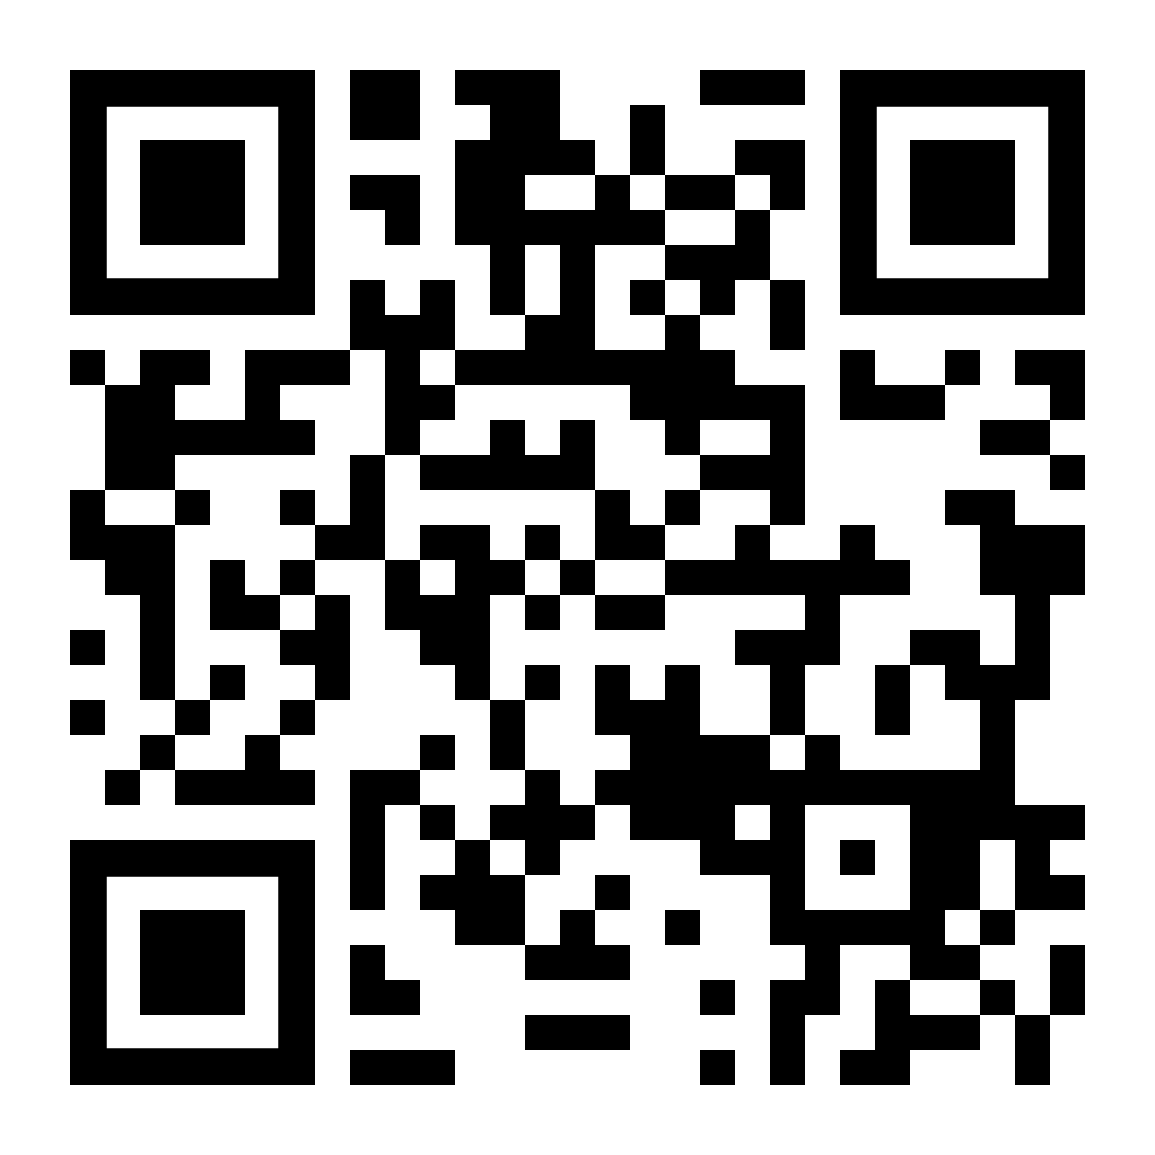
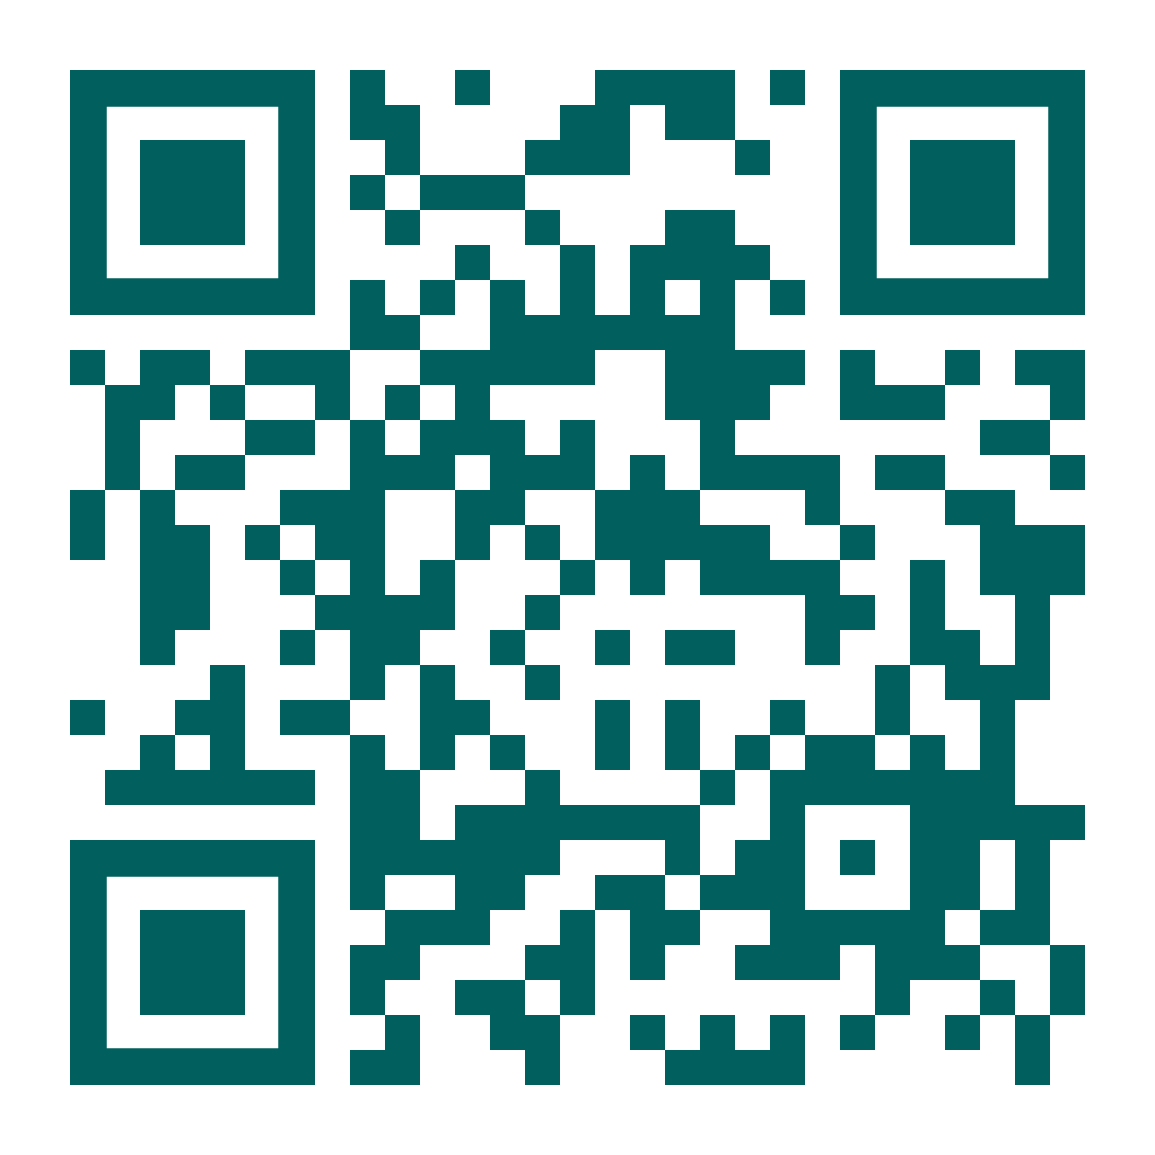
Last Change and update for the first day

diff --git a/index.html b/index.html
@@ -457,13 +457,14 @@
                     <p class="section-subtitle">پێشنیار و ڕەخنەکانت بۆمان بنێرە</p>
                 </div>
                 
-                <button type="submit" class="submit-btn mobile-only-btn">
-                    <i class="fas fa-paper-plane"></i> ناردن
-                </button>
+                <button type="button" class="submit-btn mobile-only-btn" onclick="window.open('https://forms.gle/mqn5Upubn4Dtab2k7', '_blank')">
+    <i class="fas fa-paper-plane"></i> ناردن
+</button>
+
             </div>
 
             <div class="qr-code-container">
-                <a href="YOUR_LINK_HERE" target="_blank" class="qr-code-link">
+                <a href="https://forms.gle/mqn5Upubn4Dtab2k7" target="_blank" class="qr-code-link">
                     <img src="./qr-code.png" alt="QR Code" class="qr-code-image">
                     <span class="qr-code-hint">کلیک بکە بۆ کردنەوەی لینک</span>
                 </a>
